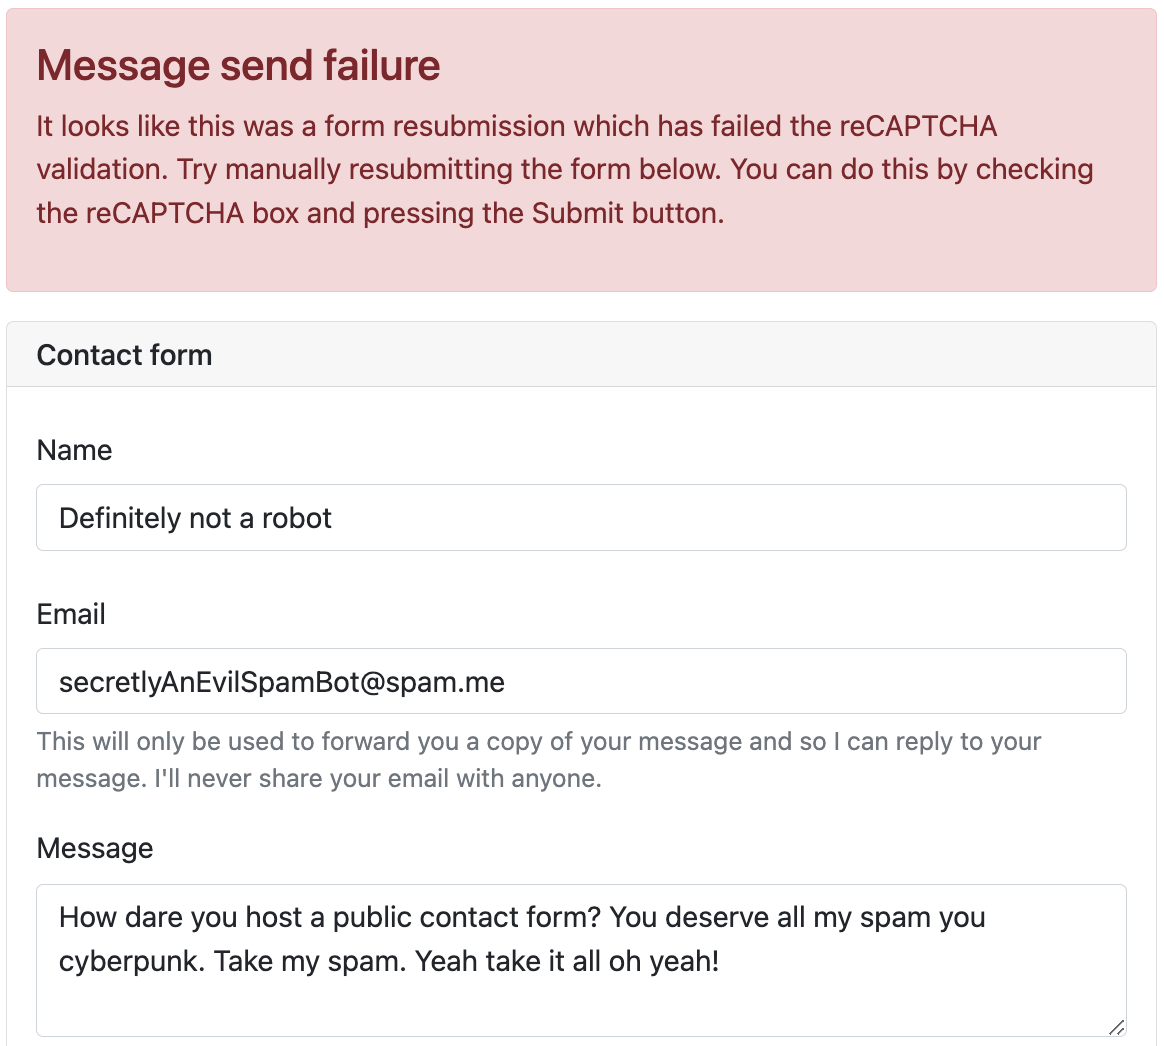
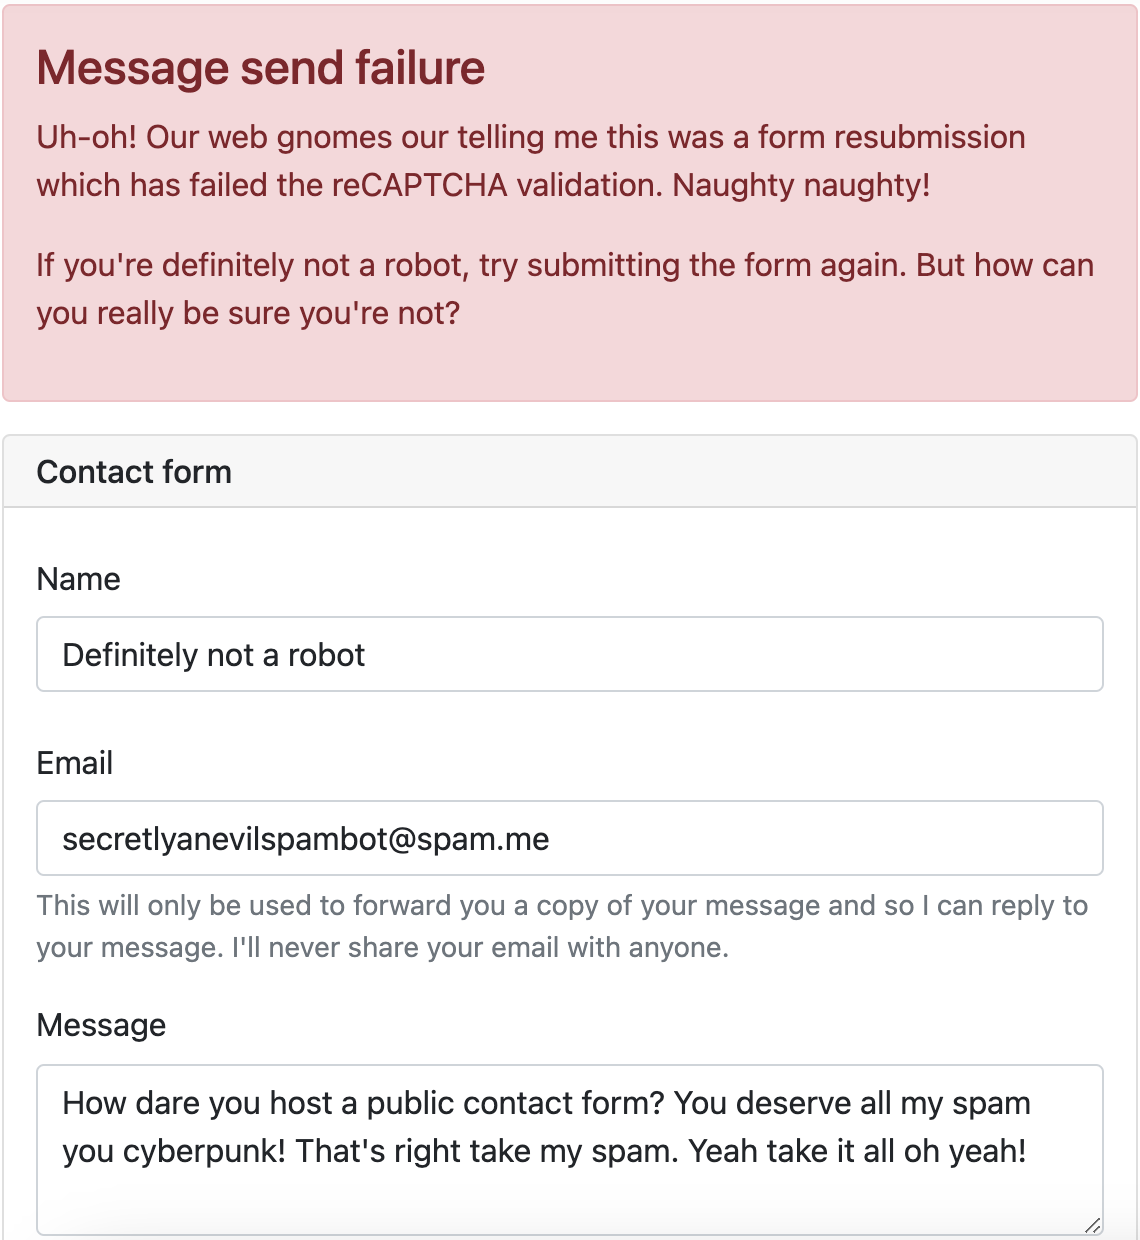
Improved contact form messages and validation

Changed region(s): [[0.0, 0.0, 1.0, 0.9484], [0.0307, 0.979, 0.9825, 1.0], [0.9825, 0.3671, 1.0, 0.979]]

diff --git a/apache2/www/src/templates/engineer/contact.html.php b/apache2/www/src/templates/engineer/contact.html.php
@@ -8,8 +8,10 @@
       <div class="alert alert-success" role="alert">
         <h4 class="alert-heading">Message sent!</h4>
         <p>
-          Your message has been sent successfully.
-          As confirmation, a copy of your message has also been forwarded to your email address.
+          Whoosh!
+          Your message is now being hand-delivered by our nimble web gnomes, zip-lining straight into my inbox.
+          For an encore, they've backflipped a copy right to the email address you provided.
+          High-five!
         </p>
       </div>
     <?php } else { ?>
@@ -18,14 +20,43 @@
           <h4 class="alert-heading">Message send failure</h4>
             <?php if ($message['error-code'] === 'timeout-or-duplicate') { ?>
               <p>
-                It looks like this was a form resubmission which has failed the reCAPTCHA validation. Try manually resubmitting the form below. You can do this by checking the reCAPTCHA box and pressing the Submit button.
+                Uh-oh!
+                Our web gnomes our telling me this was a form resubmission which has failed the reCAPTCHA validation.
+                Naughty naughty!
+              </p>
+              <p>
+                If you're definitely not a robot, try submitting the form again.
+                But how can you really be sure you're not?
+              </p>
+            <?php } else if ($message['error-code'] === 'email') { ?>
+              <p>
+                Oh no! Our web gnomes are telling me the email address you entered is invalid. Whoops!
+              </p>
+            <?php } else if ($message['error-code'] === 'name') { ?>
+              <p>
+                Oh no!
+                Our web gnomes are telling me the name you entered is too long.
+                If you're name is really that long, I'm impressed!
+                But there's a 255 character limit on this form, so you'll have to shorten it.
+              </p>
+            <?php } else if ($message['error-code'] === 'message') { ?>
+              <p>
+                Oh no!
+                Our web gnomes are telling me the message you entered is too long.
+                I'm flattered you have so much to say, but there's a 65535 character limit on this form, so you'll have to just give me the highlights.
               </p>
             <?php } else { ?>
               <p>
-              It looks like there was some kind of internal error when trying to validate your message with reCAPTCHA or when trying to send your message as an email. This might just be a one-off problem, so try submitting your message again using the form below.
+                Yikes!
+                Looks like our web gnomes tripped on a digital banana peel while they were scurrying to deliver your message.
+                Fear not, for gnomes are resilient!
+                Try tapping that 'Submit' button one more time, you never know.
               </p>
               <p>
-                If you keep seeing this error message, it probably indicates that the contact form is no longer working. Sorry about this! The best thing to do is copy the message that you've written below so you don't lose it and then send it to me in an email instead.
+                If this keeps happening, it means the contact form may be on a coffee break.
+                My deepest apologies!
+                To safeguard your message from the perils of the Internet, copy-paste it somewhere safe and catapult it directly into my email inbox instead.
+                These gnomes, huh?
               </p>
             <?php } ?>
         </div>
@@ -96,16 +127,5 @@
         <?=includeIcon('box-arrow-up-right')?>
       </div>
     </div>
-    <!-- <div class="card mb-3">
-      <div class="card-header">
-        <h6 class="mb-0">Wellfound (formerly AngelList Talent)</h6>
-      </div>
-      <div class="card-body">
-        <?=includeIcon('wellfound')?>
-        &nbsp;
-        <a href="/wellfound" target="_blank">rmsy.me/wellfound</a>
-        <?=includeIcon('box-arrow-up-right')?>
-      </div>
-    </div> -->
   </div>
 </div>

diff --git a/apache2/www/src/RMSY/Controllers/Engineer.php b/apache2/www/src/RMSY/Controllers/Engineer.php
@@ -88,37 +88,57 @@ class Engineer extends BaseController {
     }
   }
 
+  private function validatePostRequest(): bool {
+    if (isset($_POST['submit']) &&
+        isset($_POST['message']['name']) &&
+        isset($_POST['message']['email']) &&
+        isset($_POST['message']['message'])
+      ) {
+      return true;
+    } else {
+      return false;
+    }
+  }
+
   public function contact(): array {
     $description = "I'm always game to talk tech, tutoring, or even dung beetles!";
     $message['sent'] = false;
-    if (isset($_POST['submit'])) {
-      $result_string = $this->validateRecaptcha();
-      if ($result_string) {
-        $result = json_decode($result_string, true);
-        // uncomment these lines to simulate a reCAPTCHA failure
-        // $result['success'] = false; 
-        // $result['error-codes'] = ['timeout-or-duplicate'];
-        if ($result['success']) {
-          $message['sent'] = $this->sendEmail(
-            'engineer@rmsy.me',
-            'Ramsey El-Naggar',
-            'engineer@rmsy.me',
-            'Ramsey El-Naggar',
-            $_POST['message']['email'],
-            $_POST['message']['name'],
-            'rmsy.me engineer contact form message',
-            nl2br($_POST['message']['message'], false)
-          );
-          if (!$message['sent']) {
-            $message['error-code'] = 'PHPMailer';
-          }
-        } else if (count($result['error-codes']) === 1 && $result['error-codes'][0] === 'timeout-or-duplicate') {
-          $message['error-code'] = 'timeout-or-duplicate';
-        } else {
-          $message['error-code'] = 'reCAPTCHA';
-        }
+    if ($this->validatePostRequest()) {
+      if (!filter_var($_POST['message']['email'], FILTER_VALIDATE_EMAIL)) {
+        $message['error-code'] = 'email';
+      } else if (strlen($_POST['message']['name']) > 255) {
+        $message['error-code'] = 'name';
+      } else if (strlen($_POST['message']['message']) > 65535) {
+        $message['error-code'] = 'message';
       } else {
-        $message['error-code'] = 'file_get_contents';
+        $result_string = $this->validateRecaptcha();
+        if ($result_string) {
+          $result = json_decode($result_string, true);
+          // uncomment these lines to simulate a reCAPTCHA failure
+          // $result['success'] = false; 
+          // $result['error-codes'] = ['timeout-or-duplicate'];
+          if ($result['success']) {
+            $message['sent'] = $this->sendEmail(
+              'engineer@rmsy.me',
+              'Ramsey El-Naggar',
+              'engineer@rmsy.me',
+              'Ramsey El-Naggar',
+              $_POST['message']['email'],
+              $_POST['message']['name'],
+              'rmsy.me engineer contact form message',
+              nl2br($_POST['message']['message'], false)
+            );
+            if (!$message['sent']) {
+              $message['error-code'] = 'PHPMailer';
+            }
+          } else if (count($result['error-codes']) === 1 && $result['error-codes'][0] === 'timeout-or-duplicate') {
+            $message['error-code'] = 'timeout-or-duplicate';
+          } else {
+            $message['error-code'] = 'reCAPTCHA';
+          }
+        } else {
+          $message['error-code'] = 'file_get_contents';
+        }
       }
     }
     if (!$message['sent']) {

diff --git a/apache2/www/src/templates/website/back/contactForm.html.php b/apache2/www/src/templates/website/back/contactForm.html.php
@@ -14,7 +14,7 @@
 
 <p>
   The contact form's lifecycle begins with an extremely awesome and super physically attractive user, just like you, filling out their name, email, and message.
-  These are POSTed to the server when the form is submitted.
+  These are POSTed to the server when the form is submitted and validated to make sure you didn't forget anything.
   The server then API-calls up Google's reCAPTCHA service to make sure you're a human and not a filthy spambot.
   If our overlord Google is satisfied with your humanity, your message will be PHPMailer'd to me, and CC'd to the definitely-not-fake email address you provided.
 </p>
